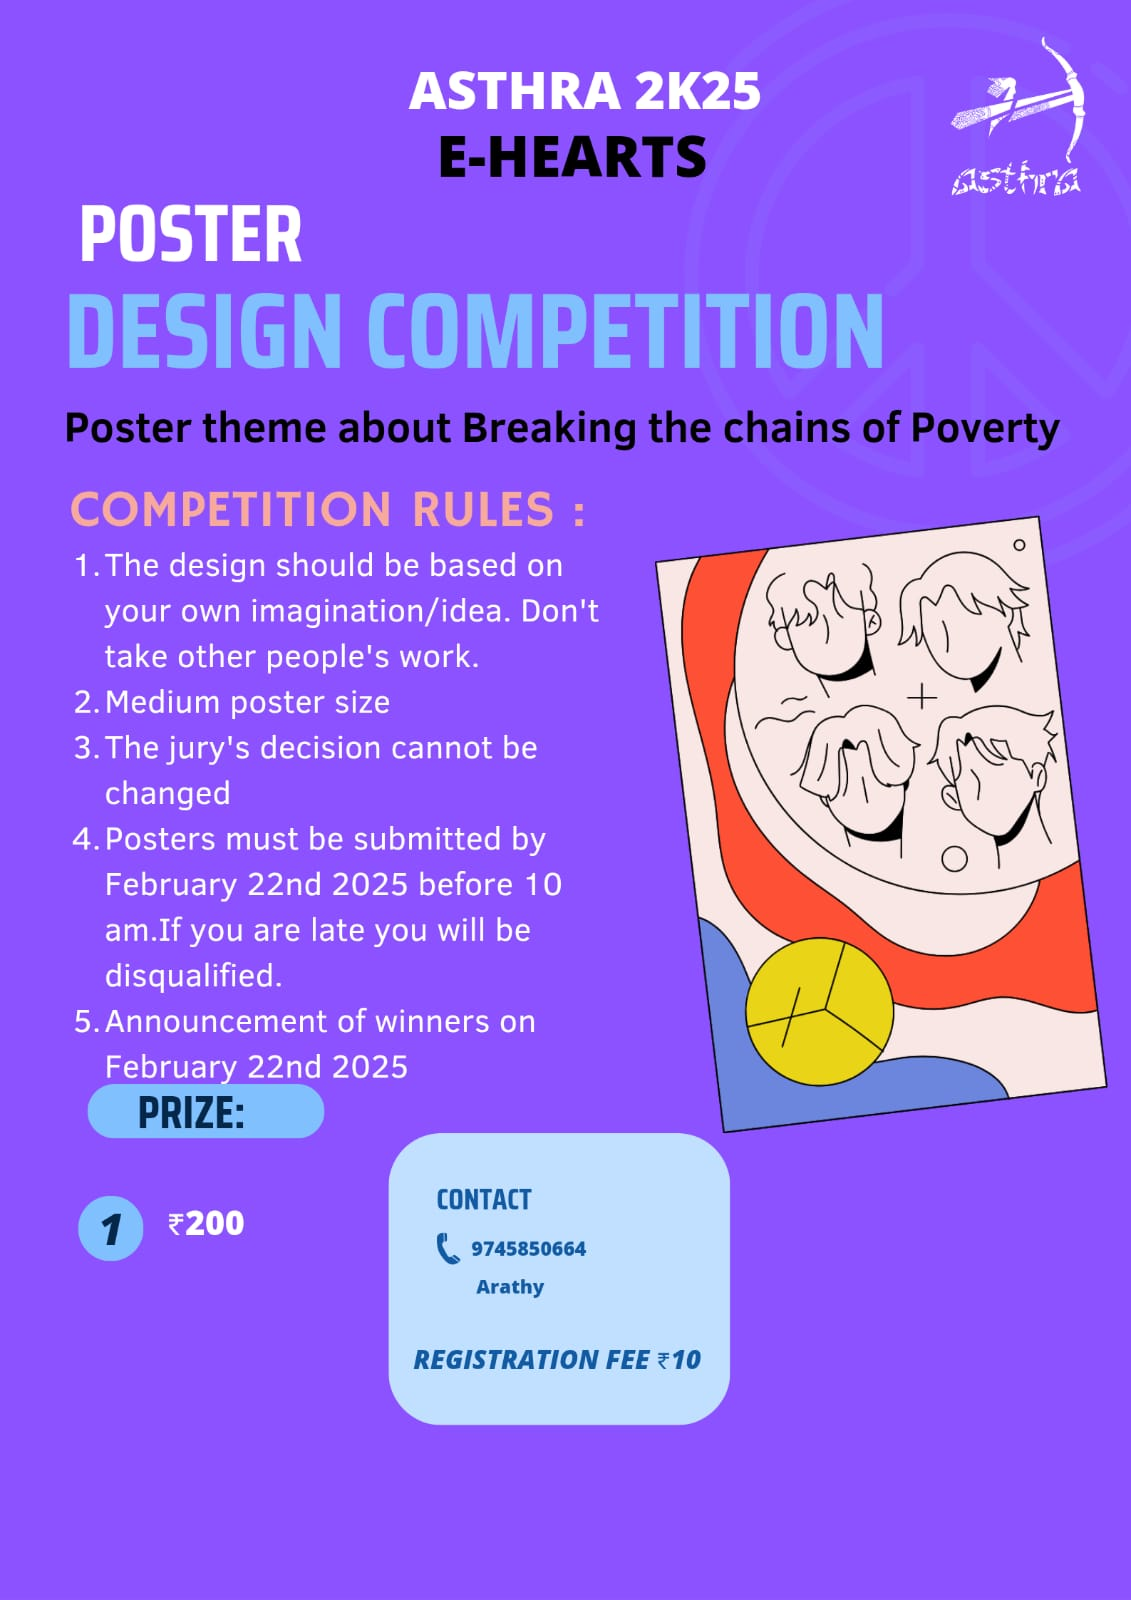
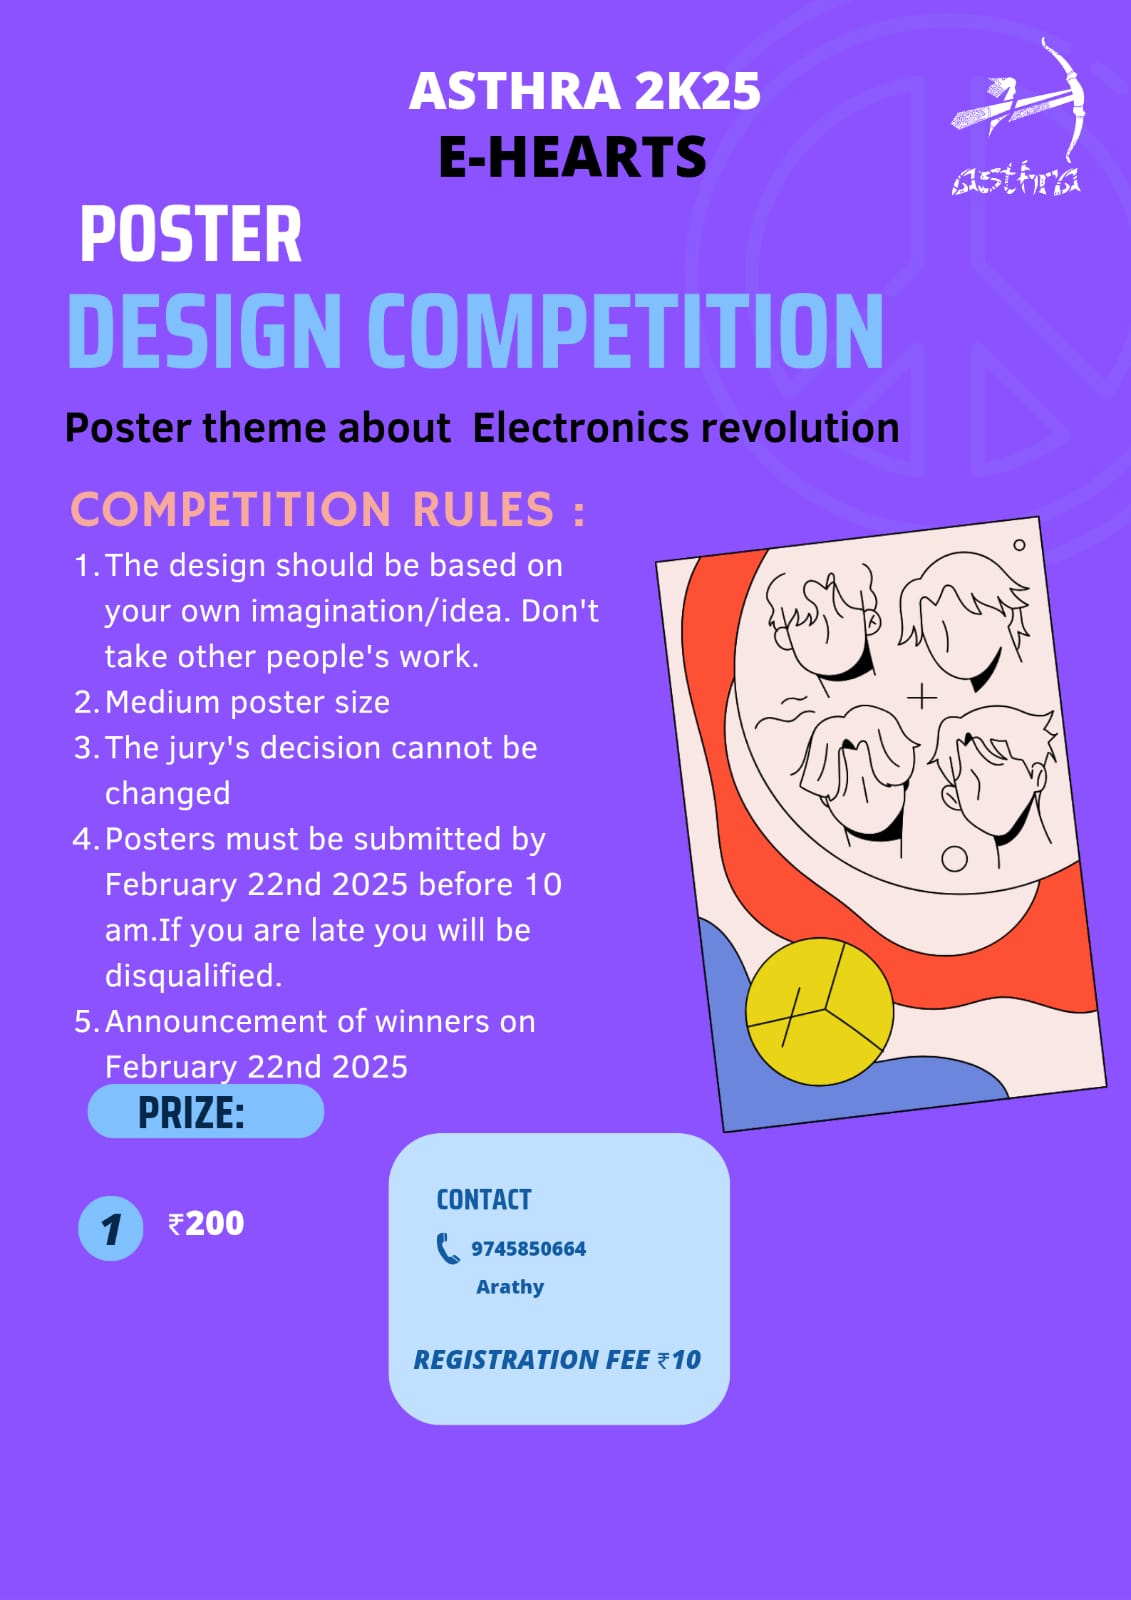
fix poster designing

Changed region(s): [[0.4023, 0.25, 0.9284, 0.2812]]

diff --git a/src/components/technicalEventData.jsx b/src/components/technicalEventData.jsx
@@ -111,7 +111,7 @@ export const technicalEvents = [
     },
     content: {
       'Description': 'Poster Designing Competition',
-      "Theme": "Breaking the Chains of Poverty",
+      "Theme": "Electronic Revolution",
       'Rules And Regulation': [
         "The design should be based on your own imagination/idea. Don't take other people's work.",
         "Medium poster size.",
@@ -120,7 +120,7 @@ export const technicalEvents = [
         "Announcement of winners on February 22nd, 2025."
       ],
     },
-    registrationLink: 'https://forms.gle/9AV4PDCTis6KHNkL6'
+    registrationLink: 'https://forms.gle/w9qD2DnNmaBP22mp9'
   },
 
   {
